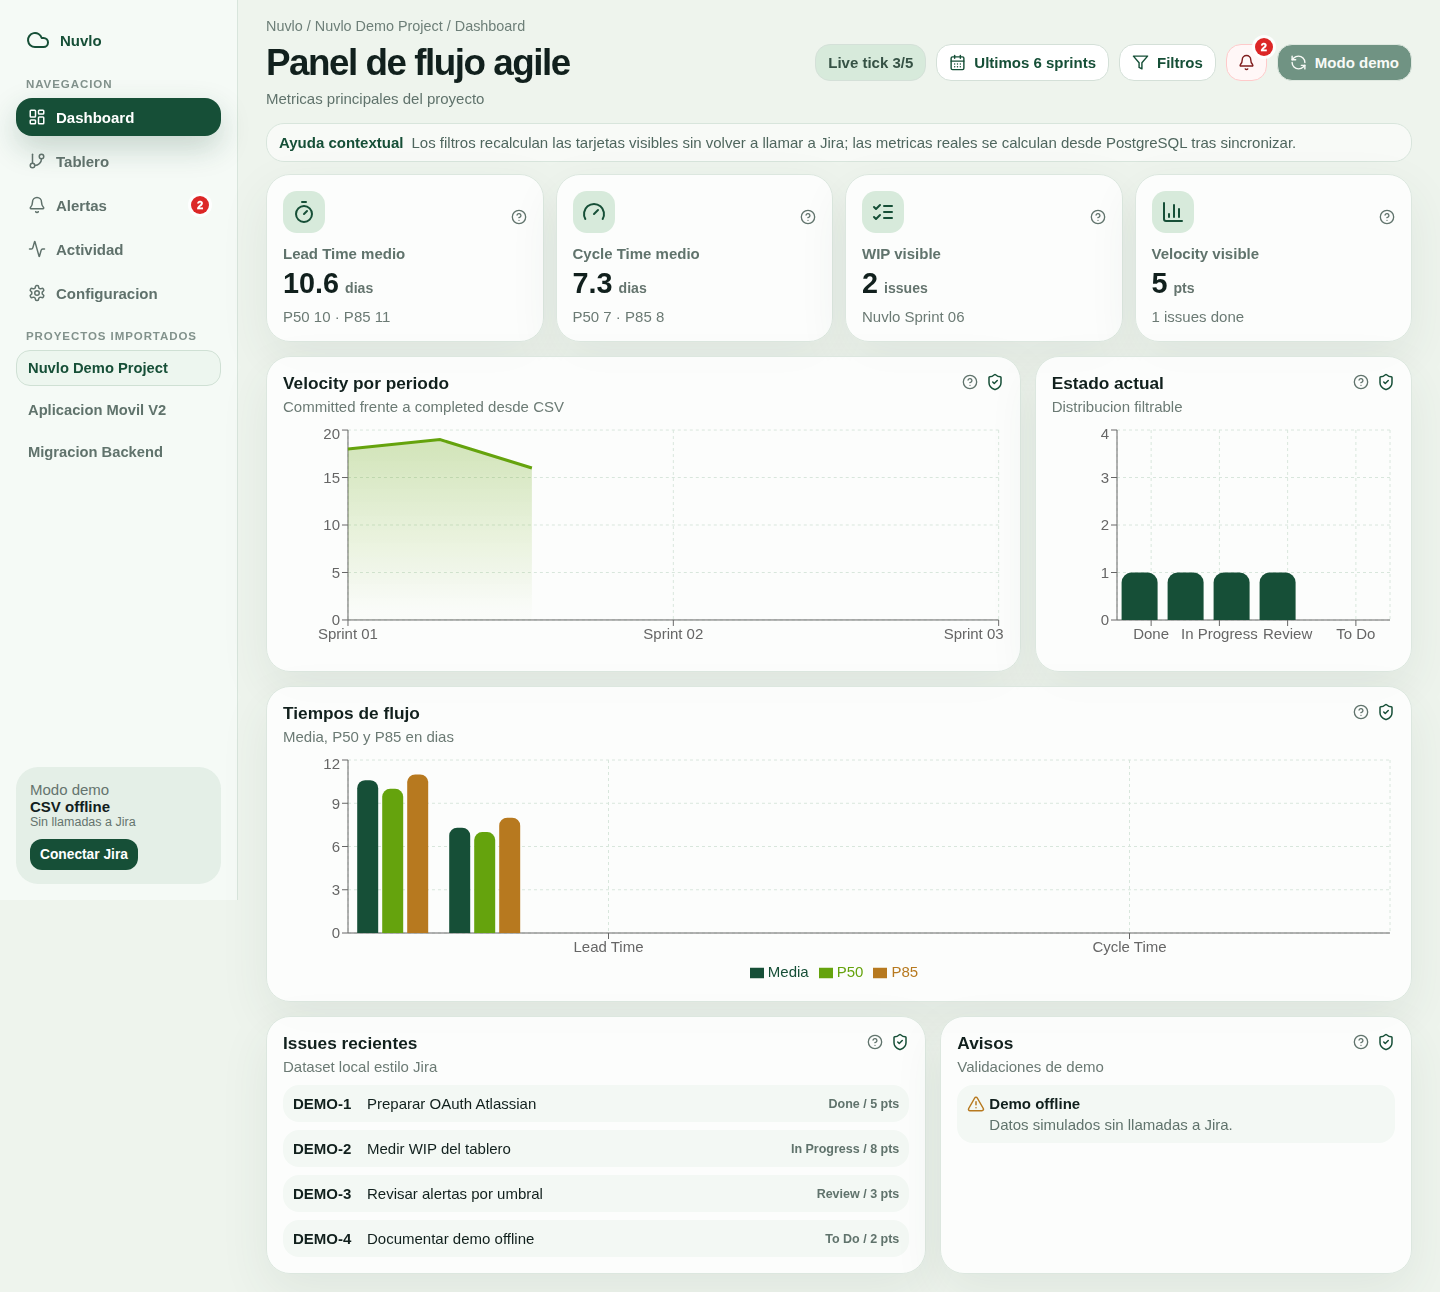
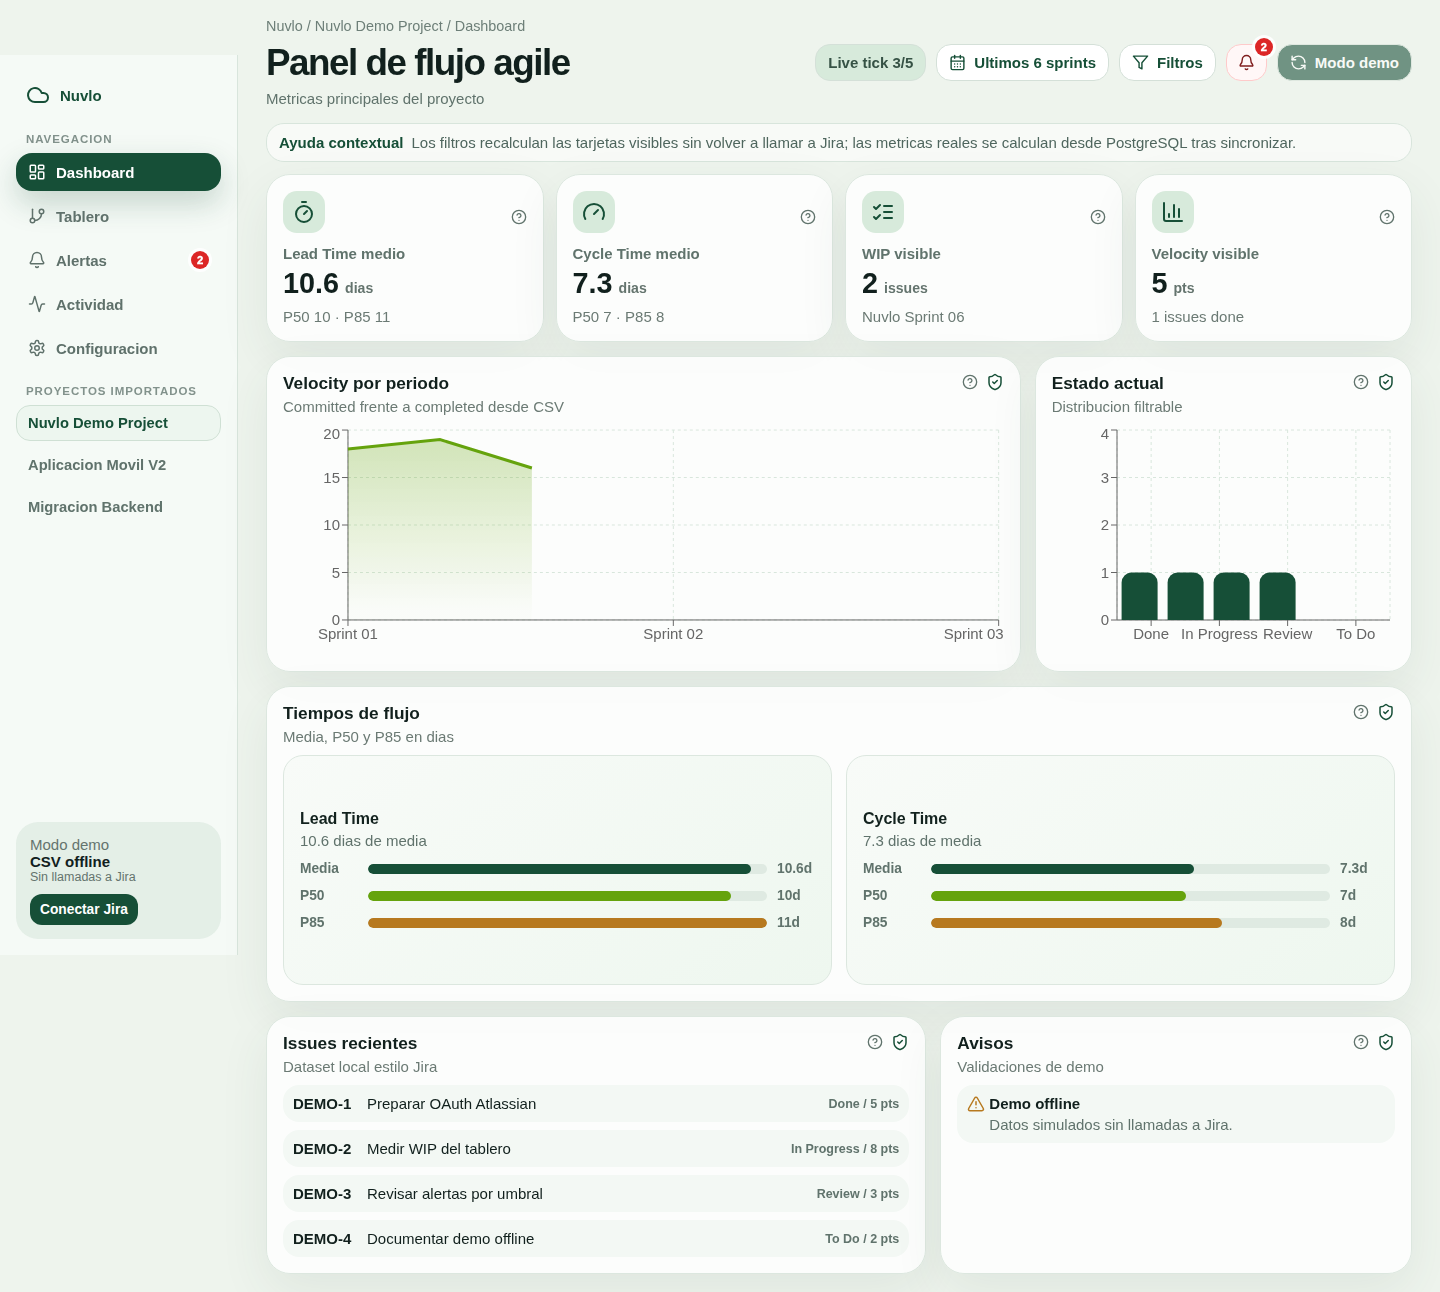
style: pule capturas y tiempos de flujo

Changed region(s): [[0.1875, 0.5882, 0.9375, 0.774], [0.0, 0.0619, 0.1562, 0.4025], [0.0, 0.5882, 0.0938, 0.743]]

diff --git a/apps/web/src/views/DashboardView.jsx b/apps/web/src/views/DashboardView.jsx
@@ -148,18 +148,7 @@ export function DashboardView({ data, filtersOpen }) {
 
         {visibleWidgets.flowChart ? <article className="chart-card flow-card">
           <CardHeader title="Tiempos de flujo" subtitle="Media, P50 y P85 en dias" help="Compara media y percentiles para Lead Time y Cycle Time. Si no hay changelog suficiente, los valores pueden ser 0." />
-          <ResponsiveContainer width="100%" height={230}>
-            <BarChart data={buildFlowTimeChart(summary)}>
-              <CartesianGrid strokeDasharray="3 3" stroke="#d8e6dc" />
-              <XAxis dataKey="metric" />
-              <YAxis />
-              <Tooltip />
-              <Legend />
-              <Bar dataKey="average" name="Media" fill="#164f37" radius={[8, 8, 0, 0]} />
-              <Bar dataKey="p50" name="P50" fill="#65a30d" radius={[8, 8, 0, 0]} />
-              <Bar dataKey="p85" name="P85" fill="#b7791f" radius={[8, 8, 0, 0]} />
-            </BarChart>
-          </ResponsiveContainer>
+          <FlowTimeSummary rows={buildFlowTimeChart(summary)} />
         </article> : null}
       </section>
 
@@ -185,6 +174,39 @@ function buildFlowTimeChart(summary) {
     { metric: 'Lead Time', average: summary.leadTime.average, p50: summary.leadTime.p50, p85: summary.leadTime.p85 },
     { metric: 'Cycle Time', average: summary.cycleTime.average, p50: summary.cycleTime.p50, p85: summary.cycleTime.p85 },
   ];
+}
+
+function FlowTimeSummary({ rows }) {
+  const maxValue = Math.max(1, ...rows.flatMap((row) => [row.average, row.p50, row.p85].map(Number)));
+  return (
+    <div className="flow-summary-grid">
+      {rows.map((row) => (
+        <div className="flow-summary-row" key={row.metric}>
+          <div>
+            <strong>{row.metric}</strong>
+            <span>{row.average ? `${row.average} dias de media` : 'Sin duracion calculable'}</span>
+          </div>
+          <FlowBar label="Media" value={row.average} maxValue={maxValue} tone="average" />
+          <FlowBar label="P50" value={row.p50} maxValue={maxValue} tone="p50" />
+          <FlowBar label="P85" value={row.p85} maxValue={maxValue} tone="p85" />
+        </div>
+      ))}
+    </div>
+  );
+}
+
+function FlowBar({ label, value, maxValue, tone }) {
+  const numericValue = Number(value) || 0;
+  const width = `${Math.max(numericValue ? 8 : 0, Math.round((numericValue / maxValue) * 100))}%`;
+  return (
+    <div className="flow-bar-line">
+      <span>{label}</span>
+      <div className="flow-bar-track" aria-hidden="true">
+        <div className={`flow-bar-fill flow-bar-${tone}`} style={{ width }} />
+      </div>
+      <strong>{numericValue}d</strong>
+    </div>
+  );
 }
 
 function normalizeForSearch(value) {

diff --git a/apps/web/src/styles.css b/apps/web/src/styles.css
@@ -373,6 +373,63 @@ button:disabled, [aria-disabled='true'] { cursor: not-allowed; }
   color: #6b7a74;
 }
 
+
+.flow-summary-grid {
+  display: grid;
+  grid-template-columns: repeat(2, minmax(0, 1fr));
+  gap: 14px;
+  min-height: 230px;
+}
+
+.flow-summary-row {
+  display: grid;
+  align-content: center;
+  gap: 12px;
+  padding: 16px;
+  border: 1px solid #dce7df;
+  border-radius: 20px;
+  background: linear-gradient(145deg, #f8fbf8, #eef7ef);
+}
+
+.flow-summary-row > div:first-child strong {
+  display: block;
+  color: #12221e;
+  font-size: 1rem;
+}
+
+.flow-summary-row > div:first-child span {
+  display: block;
+  margin-top: 4px;
+  color: #60736c;
+}
+
+.flow-bar-line {
+  display: grid;
+  grid-template-columns: 58px minmax(0, 1fr) 38px;
+  gap: 10px;
+  align-items: center;
+  color: #60736c;
+  font-size: 0.86rem;
+  font-weight: 800;
+}
+
+.flow-bar-track {
+  height: 10px;
+  overflow: hidden;
+  border-radius: 999px;
+  background: #dfeae2;
+}
+
+.flow-bar-fill {
+  height: 100%;
+  min-width: 0;
+  border-radius: inherit;
+}
+
+.flow-bar-average { background: #164f37; }
+.flow-bar-p50 { background: #65a30d; }
+.flow-bar-p85 { background: #b7791f; }
+
 .lower-grid {
   display: grid;
   grid-template-columns: 1.4fr 1fr;
@@ -664,6 +721,7 @@ button:disabled, [aria-disabled='true'] { cursor: not-allowed; }
   .topbar { align-items: flex-start; flex-direction: column; }
   .topbar-actions { justify-content: flex-start; }
   .metric-grid { grid-template-columns: 1fr; }
+  .flow-summary-grid { grid-template-columns: 1fr; }
   .issue-row, .alert-row, .timeline-row, .compact-row { grid-template-columns: 1fr; }
   .kanban-grid { grid-template-columns: 1fr; }
   .sidebar {
